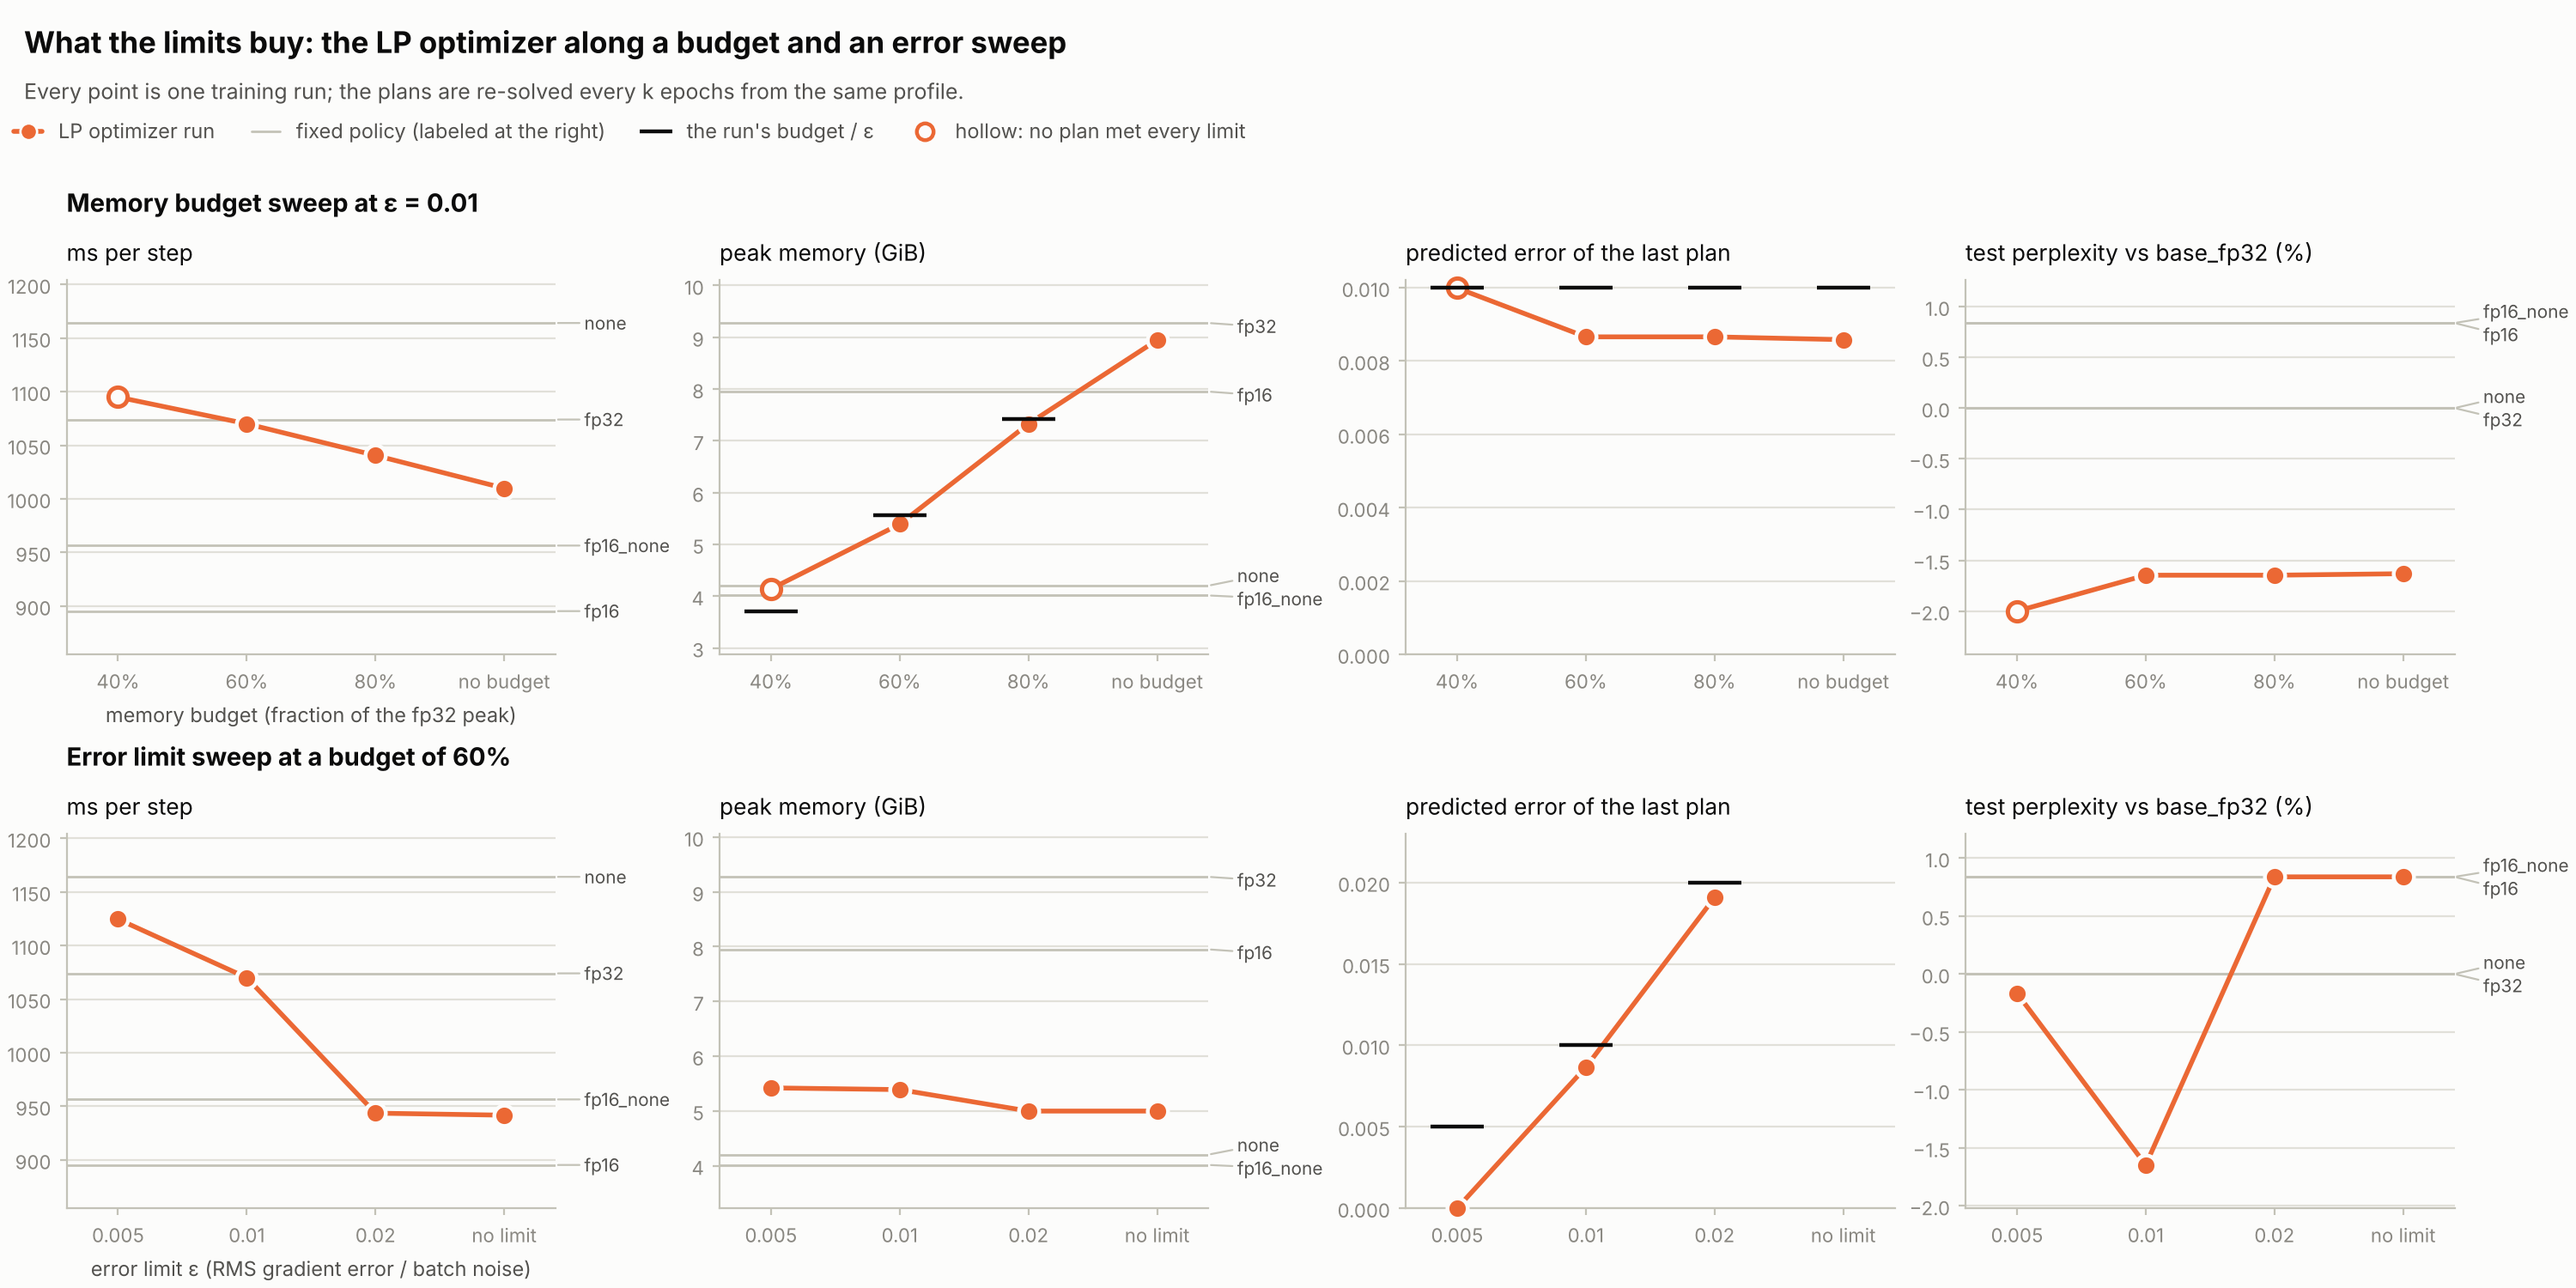
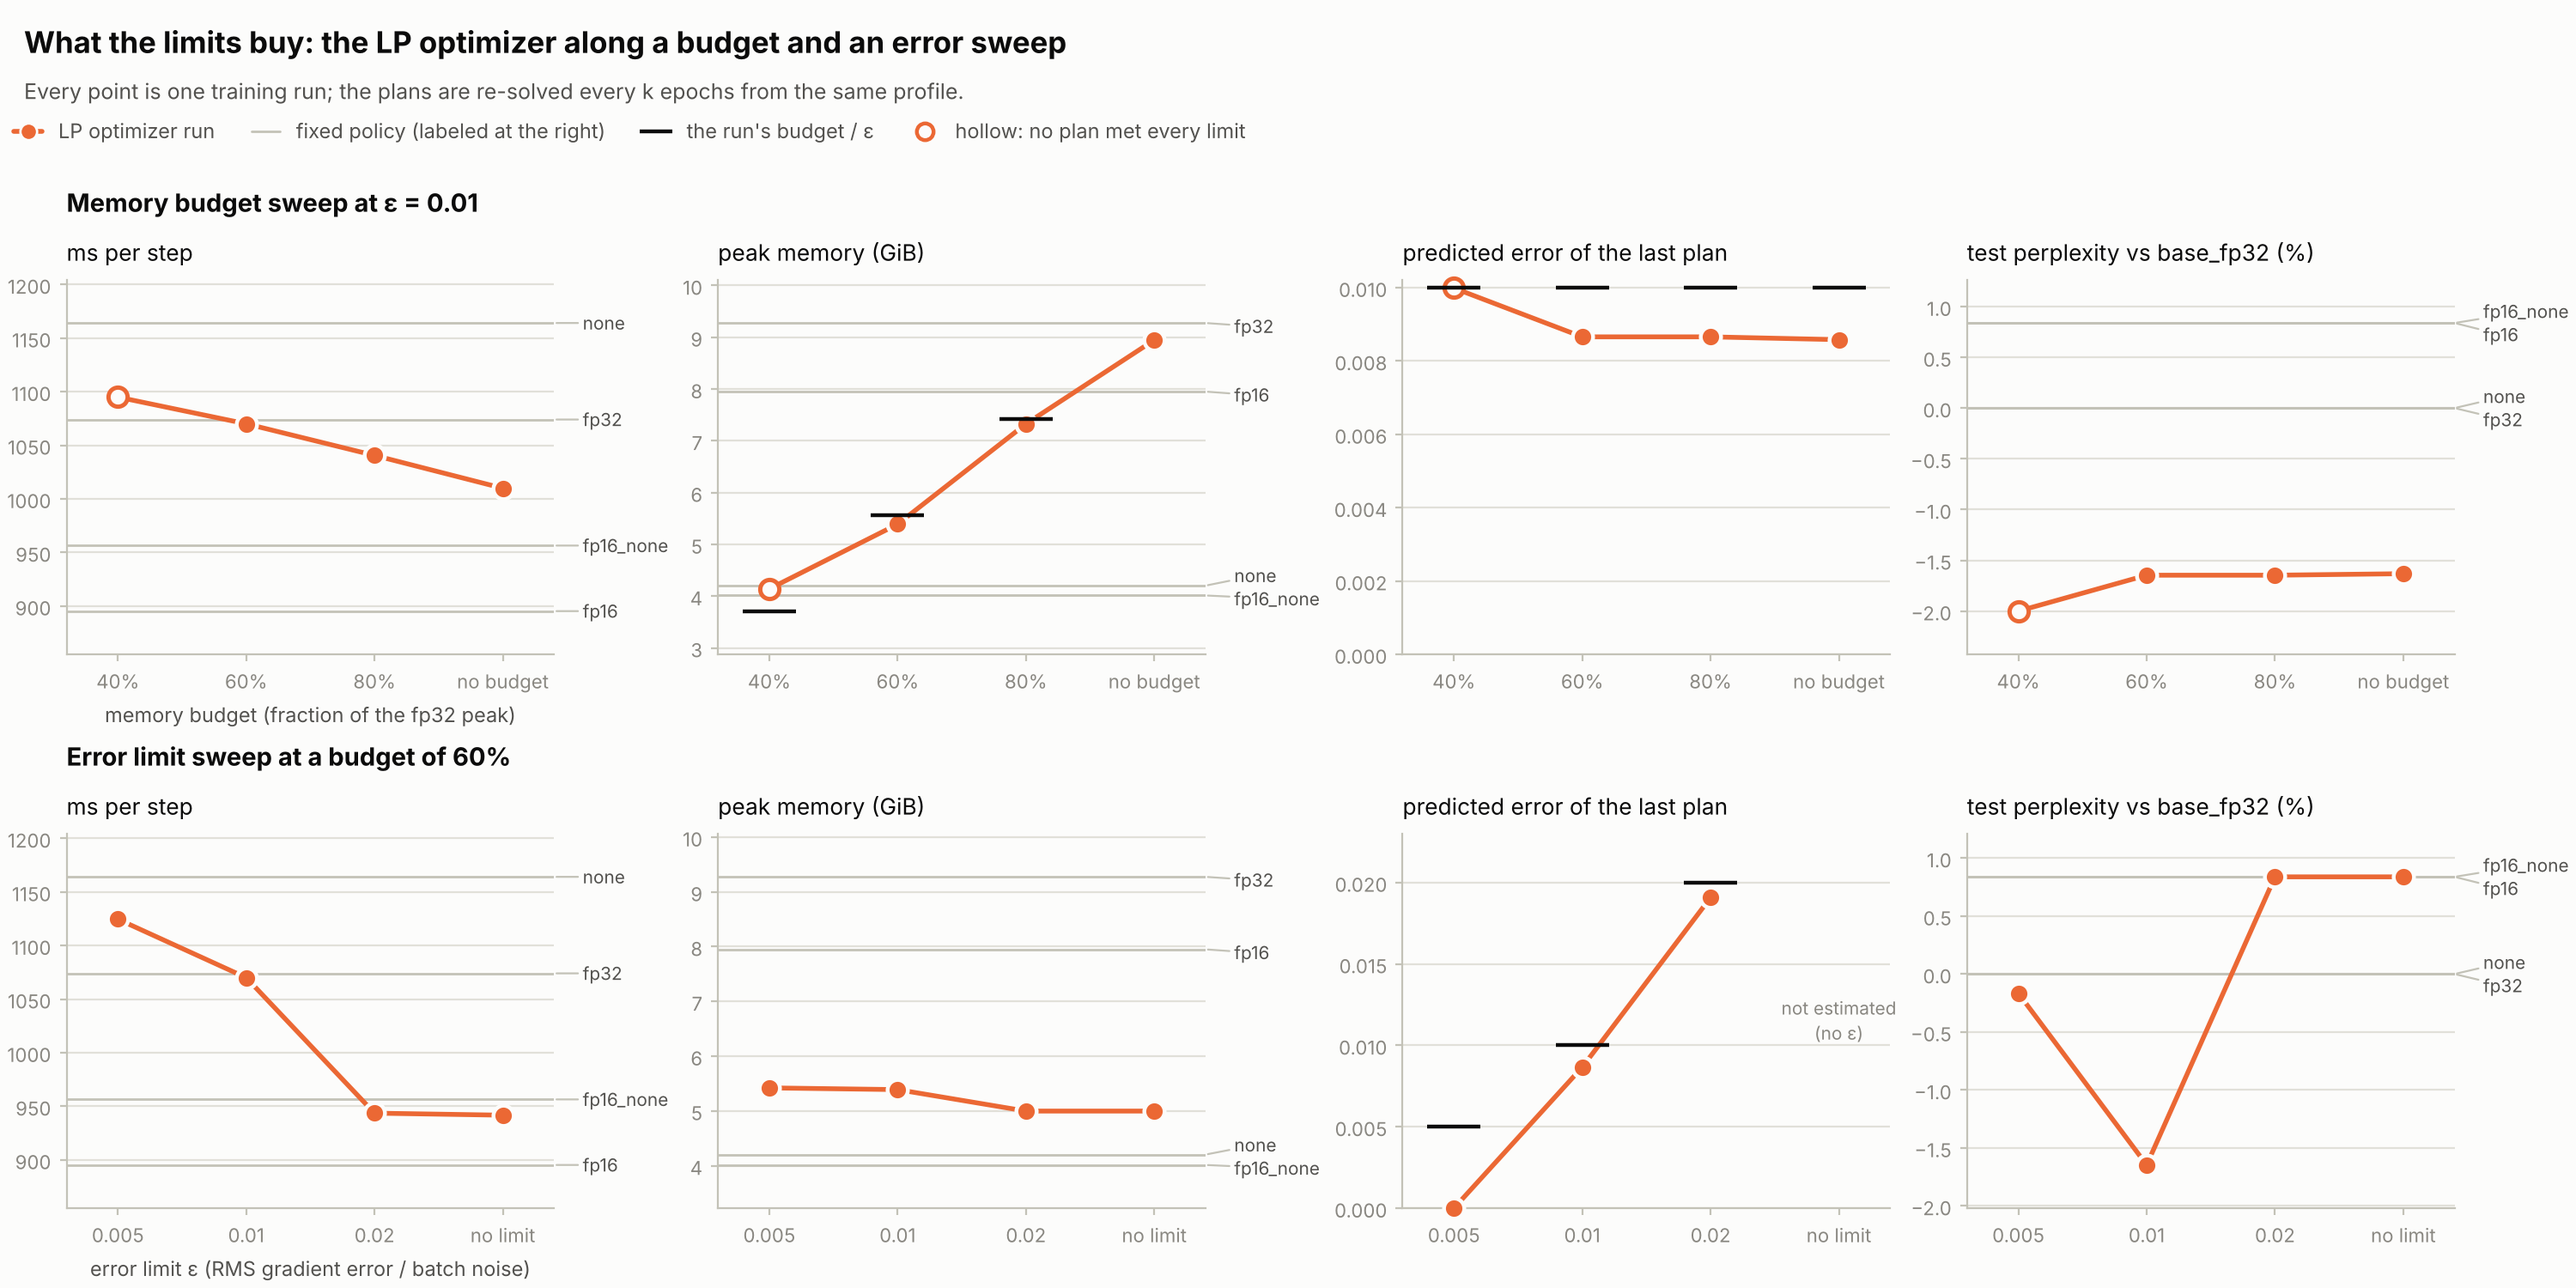
plot.py: mark the predicted error of a run without eps as not estimated
Without an error limit the controller skips the error estimate, so the
"no limit" run of the error sweep has no predicted error; the sweeps figure
now says "not estimated (no eps)" at that spot instead of leaving a gap.

Claude-Session: https://claude.ai/code/session_018R1xuVqSa2CU4ARPWfmAds

diff --git a/plot.py b/plot.py
@@ -433,6 +433,11 @@ def fig_sweeps(plt, ctx):
             ax.margins(y=0.15)
             if j == 2:
                 ax.set_ylim(bottom=0)
+                # without eps the controller skips the error estimate: say so instead of a gap
+                for x, r in zip(xs, sel):
+                    if get(r) is None and cfg(r).get("eps") is None:
+                        ax.annotate("not estimated\n(no ε)", (x, 0.5), xycoords=("data", "axes fraction"),
+                                    ha="center", va="center", fontsize=7.5, color=t["muted"], linespacing=1.2)
             grid(ax, "y")
             ax.set_xlabel(xlabel if j == 0 else "")
             ax.set_title(ylabel)
